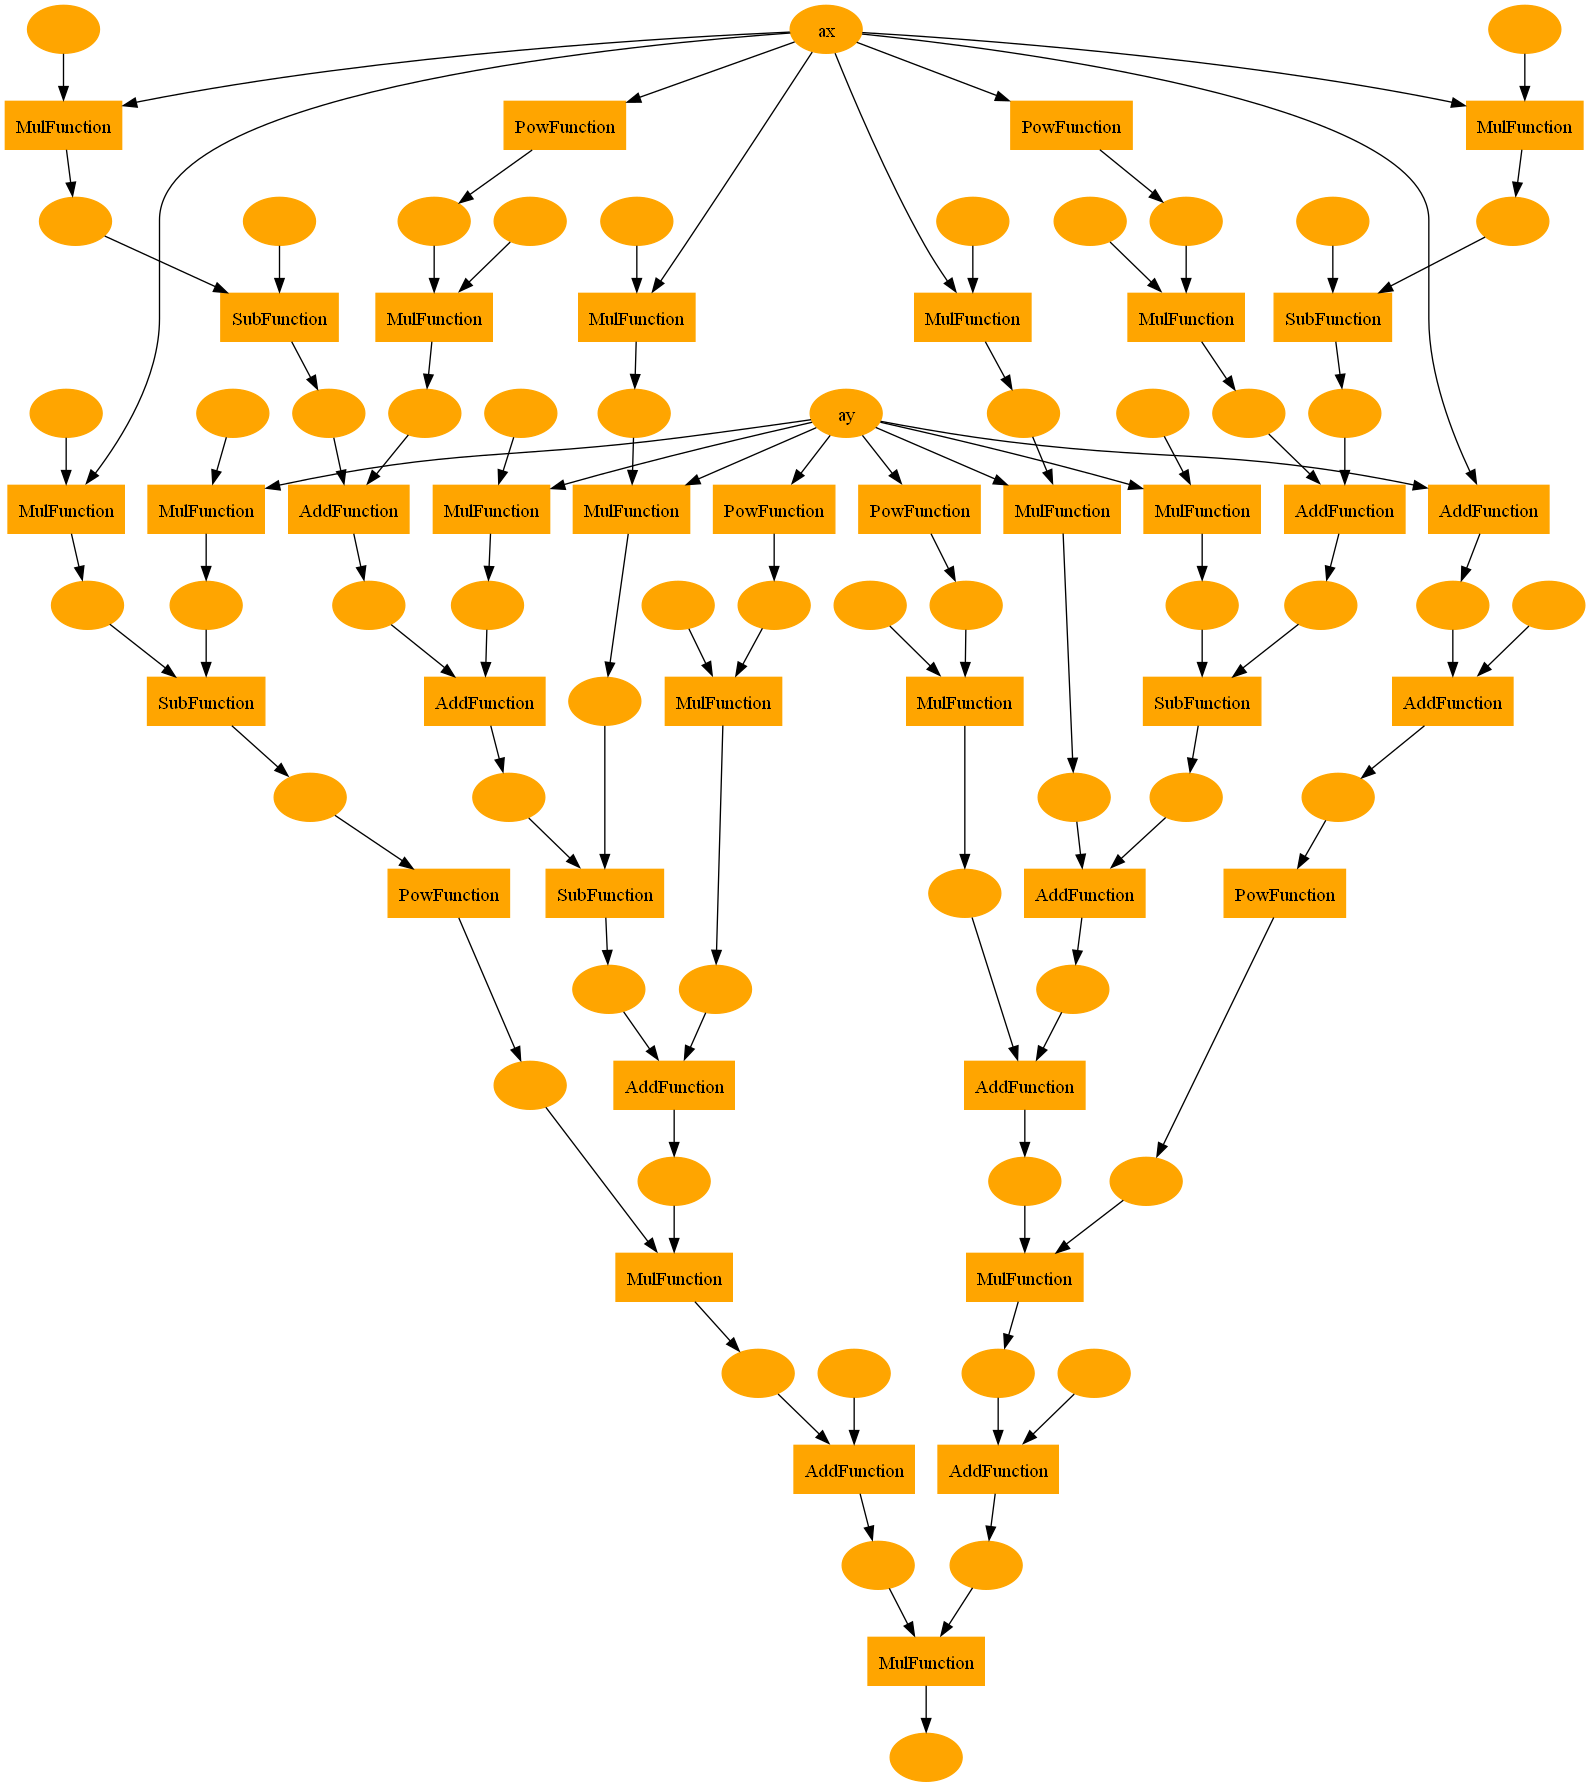
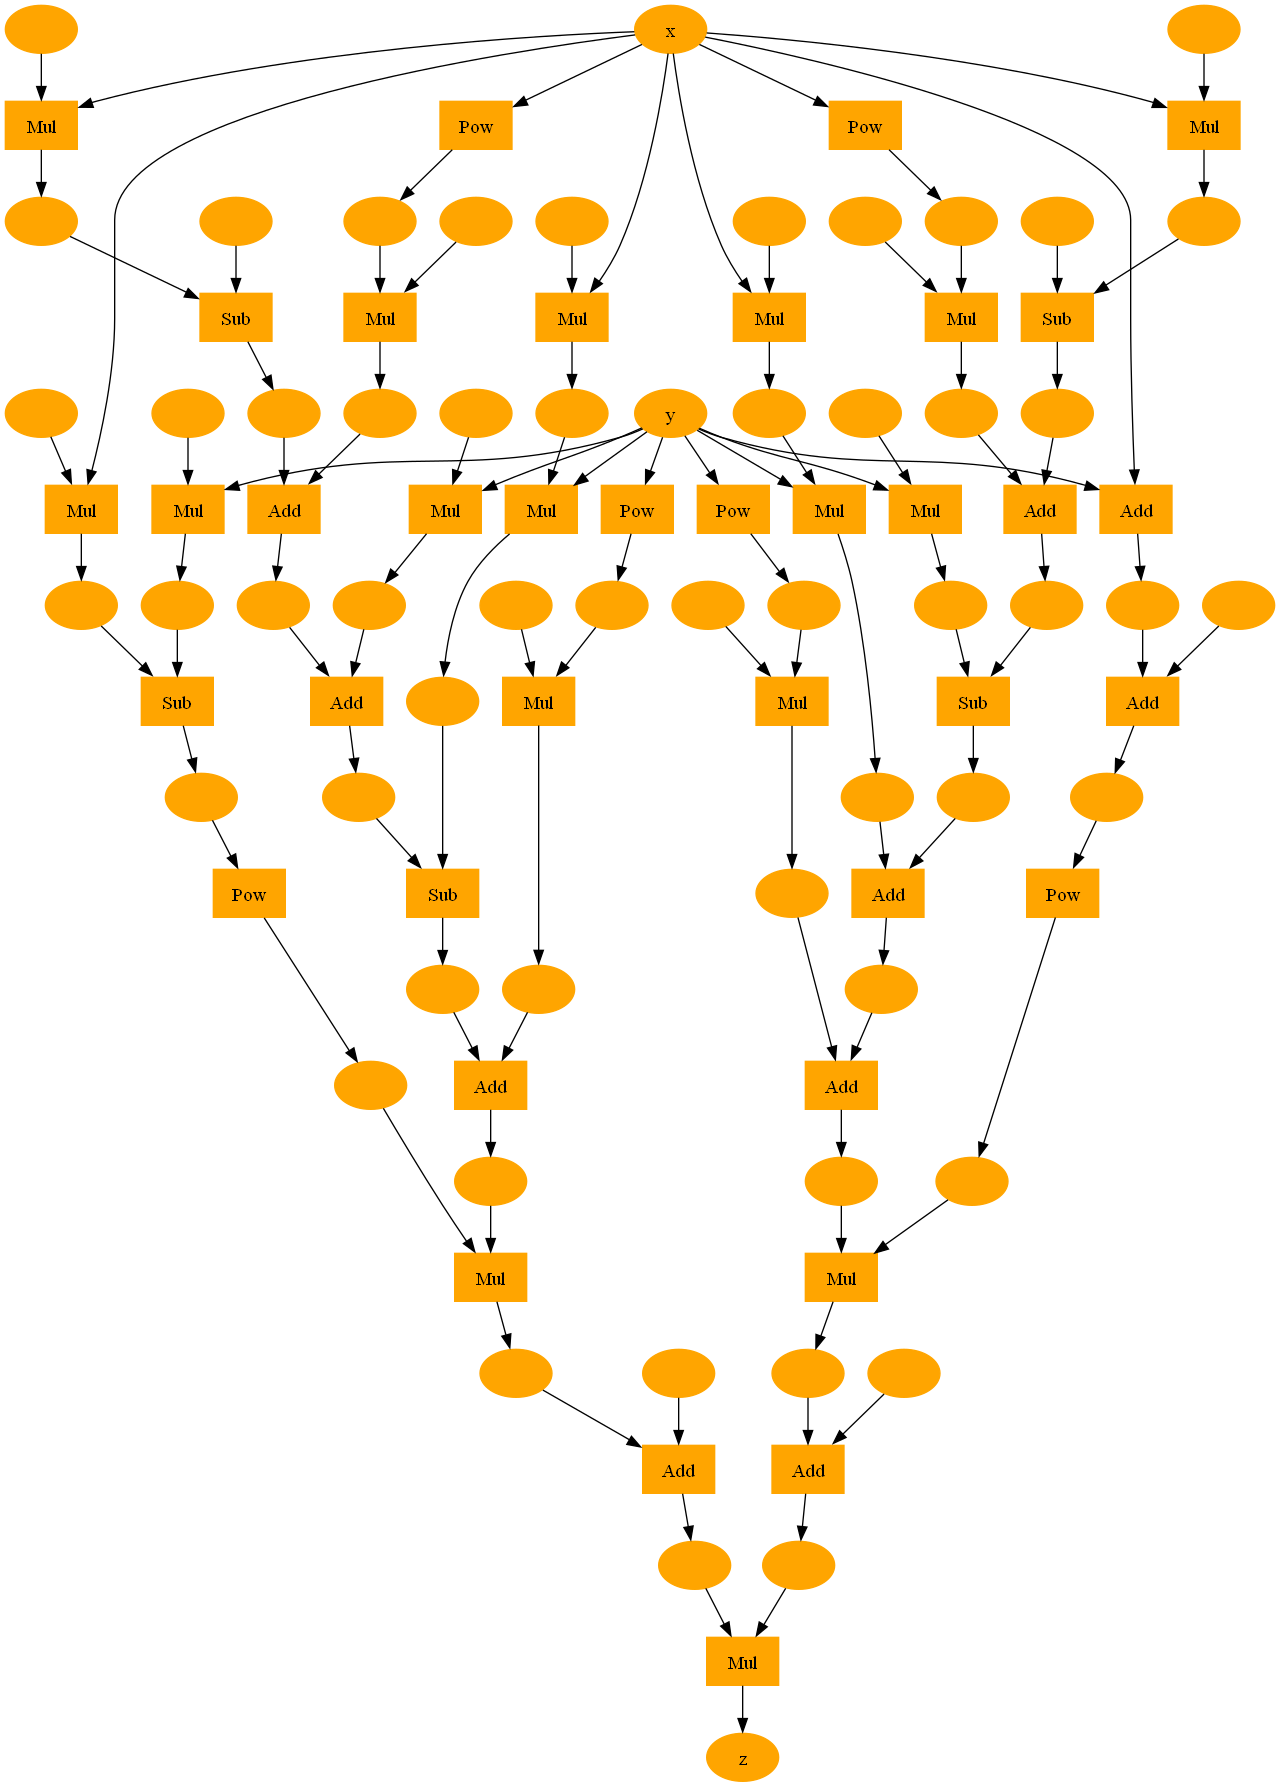
计算图的可视化

diff --git a/dezero/utils.py b/dezero/utils.py
@@ -1,0 +1,73 @@
+import os
+import subprocess
+from scipy.optimize import rosen
+
+
+def _dot_var(v, verbose=False):
+    dot_var = '{} [label="{}", color=orange, style=filled]\n'
+
+    name = '' if v.name is None else v.name
+    if verbose and v.data is not None:
+        if v.name is not None:
+            name += ': '
+        name += str(v.shape) + ' ' + str(v.dtype)
+
+    return dot_var.format(id(v), name)
+
+
+def _dot_func(f):
+    dot_func = '{} [label="{}", color=orange, style=filled, shape=box]\n'
+    txt = dot_func.format(id(f), f.__class__.__name__)
+
+    dot_edge = '{} -> {}\n'
+    for x in f.inputs:
+        txt += dot_edge.format(id(x), id(f))
+    for y in f.outputs:
+        txt += dot_edge.format(id(f), id(y()))
+    return txt
+
+
+def get_dot_graph(output, verbose=False):
+    txt = ''
+    funcs = []
+    seen_set = set()
+
+    def add_func(f):
+        if f not in seen_set:
+            funcs.append(f)
+            seen_set.add(f)
+
+    add_func(output.creator)
+    txt += _dot_var(output, verbose)
+
+    while funcs:
+        func = funcs.pop()
+        txt += _dot_func(func)
+        for x in func.inputs:
+            txt += _dot_var(x, verbose)
+
+            if x.creator is not None:
+                add_func(x.creator)
+
+    return 'digraph g {\n ' + txt + ' }'
+
+
+def plot_dot_graph(output, verbose=False, to_file='graph.png'):
+    dot_graph = get_dot_graph(output, verbose)
+
+    # 将dot数据保存到文件
+    tmp_dir = os.path.join(os.path.expanduser('~'), '.dezero')
+    if not os.path.exists(tmp_dir):
+        os.mkdir(tmp_dir)
+    graph_path = os.path.join(tmp_dir, 'tmp_graph.dot')
+    print(graph_path)
+
+    with open(graph_path, 'w') as f:
+        f.write(dot_graph)
+
+    # 调用dot命令， 将文件转换为图片
+    extension = os.path.splitext(to_file)[1][1:]
+    cmd = 'dot {} -T {} -o {}'.format(graph_path, extension, to_file)
+    print(cmd)
+    subprocess.run(cmd, shell=True)
+

diff --git a/ch_03/step27.py b/ch_03/step27.py
@@ -1,0 +1,53 @@
+if '__file__' in globals():
+    import os, sys
+    sys.path.append(os.path.join(os.path.dirname(__file__), '..'))
+import numpy as np
+import math
+from dezero import Variable, Function
+from dezero.utils import plot_dot_graph
+
+
+class Sin(Function):
+    def forward(self, x):
+        y = np.sin(x)
+        return y
+
+    def backward(self, gy):
+        x = self.inputs[0].data
+        gx = gy * np.cos(x)
+        return gx
+
+
+def sin(x):
+    return Sin()(x)
+
+
+x = Variable(np.array(np.pi / 4))
+y = sin(x)
+y.backward()
+print('--- original sin ---')
+print(y.data)
+print(x.grad)
+
+
+def my_sin(x, threshold=0.0001):
+    y = 0
+    for i in range(100000):
+        c = (-1) ** i / math.factorial(2 * i + 1)
+        t = c * x ** (2 * i + 1)
+        y = y + t
+        if abs(t.data) < threshold:
+            break
+    return y
+
+
+x = Variable(np.array(np.pi / 4))
+y = my_sin(x)  # , threshold=1e-150)
+y.backward()
+print('--- approximate sin ---')
+print(y.data)
+print(x.grad)
+
+x.name = 'x'
+y.name = 'y'
+plot_dot_graph(y, verbose=False, to_file='my_sin.png')

diff --git a/ch_03/step33.py b/ch_03/step33.py
@@ -1,41 +1,26 @@
+if '__file__' in globals():
+    import os, sys
+    sys.path.append(os.path.join(os.path.dirname(__file__), '..'))
 import numpy as np
-from scipy.optimize import rosen
-import matplotlib.pyplot as plt
-
-from dezero.core import Variable
-
+from dezero import Variable
 
 def f(x):
     y = x ** 4 - 2 * x ** 2
     return y
 
-
 x = Variable(np.array(2.0))
-
-# y = f(x)
-# print(y)  # variable(8.0)
-#
-# y.backward(create_graph=True)
-# print(x.grad)  # variable(-32.0)
-#
-# gx = x.grad
-# x.clean_grad()
-# gx.backward()
-# print(x.grad)  # variable(-80.0)
-
-# 使用牛顿法进行优化
 iters = 10
+
 for i in range(iters):
-    # print(i, x)
+    print(i, x)
+
     y = f(x)
-    x.clean_grad()
+    x.cleargrad()
     y.backward(create_graph=True)
 
     gx = x.grad
-    x.clean_grad()
+    x.cleargrad()
     gx.backward()
     gx2 = x.grad
 
     x.data -= gx.data / gx2.data
-
-    print(i, x , x.data)

diff --git a/ch_03/step26.py b/ch_03/step26.py
@@ -1,0 +1,26 @@
+'''
+Need the dot binary from the graphviz package (www.graphviz.org).
+'''
+if '__file__' in globals():
+    import os, sys
+    sys.path.append(os.path.join(os.path.dirname(__file__), '..'))
+import numpy as np
+from dezero import Variable
+from dezero.utils import plot_dot_graph
+
+
+def goldstein(x, y):
+    z = (1 + (x + y + 1)**2 * (19 - 14*x + 3*x**2 - 14*y + 6*x*y + 3*y**2)) * \
+        (30 + (2*x - 3*y)**2 * (18 - 32*x + 12*x**2 + 48*y - 36*x*y + 27*y**2))
+    return z
+
+
+x = Variable(np.array(1.0))
+y = Variable(np.array(1.0))
+z = goldstein(x, y)
+z.backward()
+
+x.name = 'x'
+y.name = 'y'
+z.name = 'z'
+plot_dot_graph(z, verbose=False, to_file='goldstein.png')

diff --git a/ch_03/step29.py b/ch_03/step29.py
@@ -11,24 +11,23 @@ if not dezero.is_simple_core:
     setup_variable()
 
 
-def rosenbrock(x0, x1):
-    y = 100 * (x1 - x0 ** 2) ** 2 + (x0 - 1) ** 2
+def f(x):
+    y = x ** 4 - 2 * x ** 2
     return y
 
 
-x0 = Variable(np.array(0.0))
-x1 = Variable(np.array(2.0))
-lr = 0.001
-iters = 1000
+def gx2(x):
+    return 12 * x ** 2 - 4
+
+
+x = Variable(np.array(2.0))
+iters = 10
 
 for i in range(iters):
-    print(x0, x1)
+    print(i, x)
 
-    y = rosenbrock(x0, x1)
-
-    x0.cleargrad()
-    x1.cleargrad()
+    y = f(x)
+    x.cleargrad()
     y.backward()
 
-    x0.data -= lr * x0.grad
-    x1.data -= lr * x1.grad
+    x.data -= x.grad / gx2(x.data)

diff --git a/ch_03/step34.py b/ch_03/step34.py
@@ -1,0 +1,25 @@
+if '__file__' in globals():
+    import os, sys
+    sys.path.append(os.path.join(os.path.dirname(__file__), '..'))
+import numpy as np
+import matplotlib.pyplot as plt
+from dezero import Variable
+import dezero.functions as F
+
+x = Variable(np.linspace(-7, 7, 200))
+y = F.sin(x)
+y.backward(create_graph=True)
+
+logs = [y.data]
+
+for i in range(3):
+    logs.append(x.grad.data)
+    gx = x.grad
+    x.cleargrad()
+    gx.backward(create_graph=True)
+
+labels = ["y=sin(x)", "y'", "y''", "y'''"]
+for i, v in enumerate(logs):
+    plt.plot(x.data, logs[i], label=labels[i])
+plt.legend(loc='lower right')
+plt.show()

diff --git a/ch_03/step35.py b/ch_03/step35.py
@@ -1,0 +1,24 @@
+if '__file__' in globals():
+    import os, sys
+    sys.path.append(os.path.join(os.path.dirname(__file__), '..'))
+import numpy as np
+from dezero import Variable
+from dezero.utils import plot_dot_graph
+import dezero.functions as F
+
+x = Variable(np.array(1.0))
+y = F.tanh(x)
+x.name = 'x'
+y.name = 'y'
+y.backward(create_graph=True)
+
+iters = 1
+
+for i in range(iters):
+    gx = x.grad
+    x.cleargrad()
+    gx.backward(create_graph=True)
+
+gx = x.grad
+gx.name = 'gx' + str(iters + 1)
+plot_dot_graph(gx, verbose=False, to_file='tanh.png')

diff --git a/ch_03/step36.py b/ch_03/step36.py
@@ -1,0 +1,15 @@
+if '__file__' in globals():
+    import os, sys
+    sys.path.append(os.path.join(os.path.dirname(__file__), '..'))
+import numpy as np
+from dezero import Variable
+
+x = Variable(np.array(2.0))
+y = x ** 2
+y.backward(create_graph=True)
+gx = x.grad
+x.cleargrad()
+
+z = gx ** 3 + y
+z.backward()
+print(x.grad)

diff --git a/ch_03/step25.py b/ch_03/step25.py
@@ -1,0 +1,1 @@
+# No code

diff --git a/ch_03/step30.py b/ch_03/step30.py
@@ -1,0 +1,1 @@
+# No code

diff --git a/ch_03/step31.py b/ch_03/step31.py
@@ -1,0 +1,1 @@
+# No code

diff --git a/ch_03/step32.py b/ch_03/step32.py
@@ -1,0 +1,1 @@
+# No code
